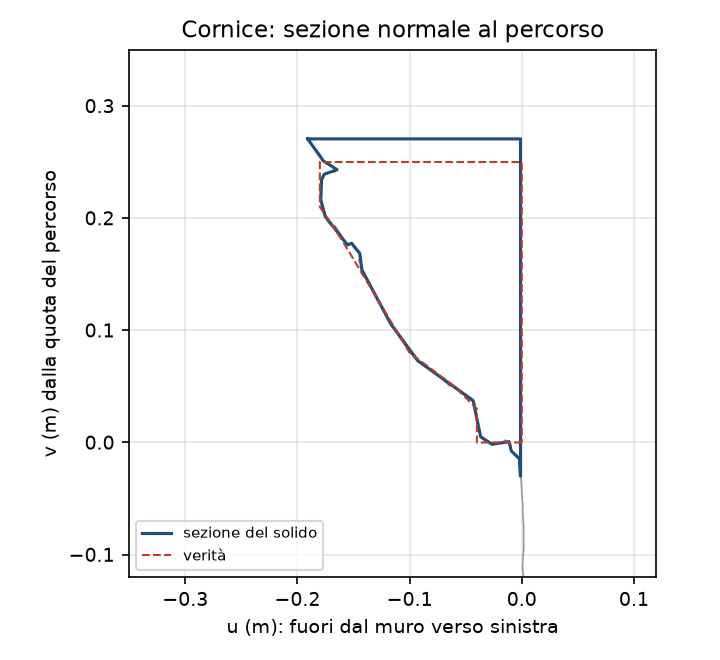
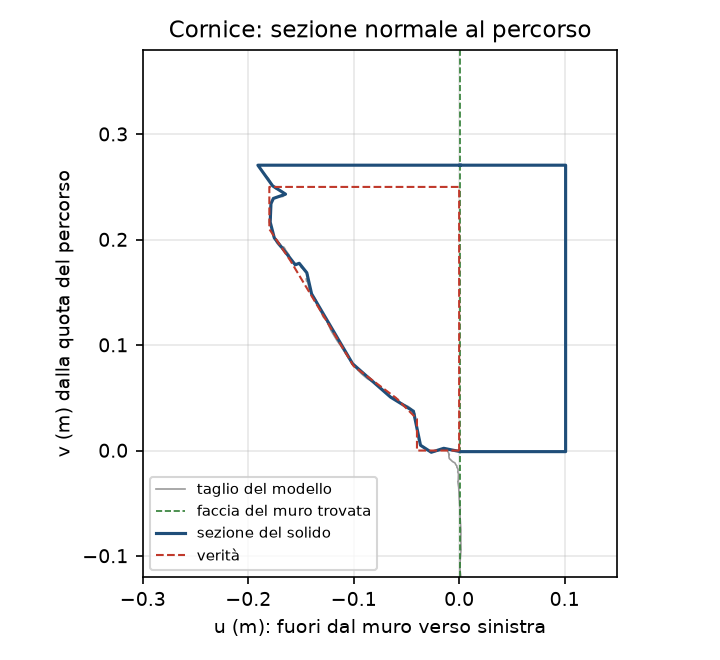
docs(plugins): Architectural elements after the review - the cornice measured from the wall face, the ring's thickness checked, STEP in metres, rebuild
- The cornice's section is the stretch that stands out of the wall face, its projection from the face and its height
  its own; the window found from the cut; the wall face out of the fit. New numbers of the proof (dialog defaults).
- The ring's thickness accepted only when the far crossings agree, else asked for (a ring flush with a wall); the arch's
  fit on the curved faces only; a type asked for is enforced; the RMS of the candidates shown.
- True arcs only for semicircular, segmental and pointed rings; STEP in metres, STL numbers in metres, the origin file
  beside an exported STEP; plan input always on the chunk's own orthophoto; the warnings of a column; failed edits
  change nothing; Rebuild after the chunk's system changed. The pane figure whole.

diff --git a/docs/plugins/architecture.it.md b/docs/plugins/architecture.it.md
@@ -31,6 +31,9 @@ README e il codice sono nel [repository dei plugin](https://github.com/enzococca
    verticale.
 5. Leggi lo **scarto** nella tabella, mostra il solido nella vista 3D, modifica i parametri, esporta STEP, IFC o DXF.
 
+Zone e percorsi in pianta si disegnano sempre sull'ortofoto (o sul DEM) del chunk: il plugin la rimostra prima di
+chiedere, anche quando la vista mostrava un prospetto.
+
 <figure markdown="span">
   ![Il pannello del plugin](../img/plugins/architecture/pane.png)
   <figcaption>Il pannello con i tre elementi degli esempi: le misure e lo scarto di ciascuno.</figcaption>
@@ -76,7 +79,12 @@ interno. La parte del modello dentro la zona e fra le due quote è la colonna, o
   già fatta.
 
 *Modifica parametri...* cambia il raggio di ogni nodo, il numero dei nodi o la scelta *Come misurato*: il profilo
-misurato e l'asse restano come sono, cambia solo il solido, e lo scarto si misura di nuovo.
+misurato e l'asse restano come sono, cambia solo il solido, e lo scarto si misura di nuovo. Una modifica che non riesce
+o viene annullata non cambia nulla: l'elemento tiene i suoi numeri e i suoi file.
+
+Il plugin avvisa (nella tabella, nel riassunto e nell'IFC) quando il profilo ha un **gradino**, una base o un abaco
+dentro la zona: base, fusto e capitello vanno fatti come elementi separati. Per un **fusto coricato** quale capo sia la
+base è arbitrario: raggio alla base e in cima possono risultare scambiati.
 
 <figure markdown="span">
   ![Il profilo della colonna](../img/plugins/architecture/column-profile.png)
@@ -99,18 +107,24 @@ Una cornice, una modanatura, una cornice marcapiano: una sezione portata lungo u
   superficie del modello più vicina a chi guarda: un percorso così tiene le sue quote, anche una cornice inclinata);
   oppure dritto **fra due marker**.
 * **La sezione**: il modello tagliato dal piano normale al percorso in una stazione (di base il centro del primo
-  tratto), tenuto in una **finestra** intorno al punto del percorso (sotto, sopra, sporgenza massima), la linea più
-  vicina al percorso, chiusa contro il muro da una linea di fondo *Profondità nel muro* dietro di essa, semplificata
-  (Douglas-Peucker, in metri). Sporge verso le foto, o dal lato che scegli.
+  tratto). Sulla linea del taglio più vicina al punto del percorso il plugin trova la **faccia del muro** (dove la linea
+  corre verticale) e tiene solo il tratto che **ne sporge** più della risoluzione della mesh, quello al punto del
+  percorso: l'altezza della modanatura, non il muro sopra e sotto. Il tratto si chiude con una linea di fondo
+  *Profondità nel muro* dietro la faccia e si semplifica (Douglas-Peucker, in metri). La **sporgenza** si misura dalla
+  faccia del muro. Di base la finestra si trova dal taglio (l'estensione della modanatura e 10 cm intorno, conservata
+  nell'elemento); una finestra data nel dialogo o con `--window` limita la ricerca. Sporge verso le foto, o dal lato
+  che scegli. Un elemento isolato (un taglio che si richiude su se stesso) si tiene intero.
 * **Il solido**: la sezione portata lungo il percorso con gli **angoli a quartabuono**, come gira l'angolo una cornice
   scolpita; un'estrusione se il percorso è dritto.
 
-*Modifica parametri...* cambia la semplificazione e la profondità nel muro, dal taglio conservato nell'elemento.
+*Modifica parametri...* cambia la semplificazione e la profondità nel muro, dalla linea del taglio conservata
+nell'elemento.
 
 <figure markdown="span">
   ![La sezione della cornice](../img/plugins/architecture/cornice-section.png)
-  <figcaption>La cornice degli esempi: la sezione del solido (blu) contro quella vera (rosso). La sommità è più alta
-  perché lo è il modello del programma: la cima del muro si vedeva solo di scorcio.</figcaption>
+  <figcaption>La cornice degli esempi: il taglio del modello (grigio), la faccia del muro trovata (verde), la sezione
+  del solido (blu, chiusa 10 cm dentro il muro) contro quella vera (rosso). La sommità è più alta perché lo è il modello
+  del programma: la cima del muro si vedeva solo di scorcio.</figcaption>
 </figure>
 
 ## L'arco e la volta
@@ -125,10 +139,18 @@ Una cornice, una modanatura, una cornice marcapiano: una sezione portata lungo u
   chiave), un'**ellisse** con gli assi orizzontale e verticale, o **come misurato**. Gli stipiti sotto la linea d'imposta
   fanno parte dell'adattamento, come linee verticali. Con *il migliore (scarto)* vince il tipo più semplice entro il 25 %
   dello scarto migliore: un cerchio prima di un arco acuto, prima di un'ellisse.
-* **Spessore**: la distanza mediana dell'estradosso dall'intradosso, o dato. **Profondità**: l'estensione del modello
-  dietro la ghiera lungo la normale del piano, o data. *Volta a botte* scrive lo stesso solido come volta.
+* **Spessore**: la distanza mediana dell'estradosso dall'intradosso, accettata solo quando gli attraversamenti più
+  lontani concordano (dispersione sotto il 20 % della mediana, mediana sotto metà della luce); altrimenti il plugin lo
+  chiede, con il motivo. Un arco la cui ghiera è **a filo del muro** intorno non mostra un estradosso in sezione: gli
+  attraversamenti lontani sono i fianchi e la sommità del muro, e lo spessore va dato. **Profondità**: l'estensione del
+  modello dietro la ghiera lungo la normale del piano, o data. *Volta a botte* scrive lo stesso solido come volta.
+* **Il tipo chiesto si rispetta**: a tutto sesto mette il centro sulla linea d'imposta, ribassato sotto di essa. La
+  tabella, il riassunto e l'IFC danno lo scarto quadratico del tipo scelto e degli altri provati, per esempio «a sesto
+  acuto (rms 1,3 mm; cerchio 45,8, ellisse 9,9)».
 
-La ghiera sopra la linea d'imposta si scrive con archi veri (tre punti ciascuno) in STEP e IFC.
+Una ghiera a tutto sesto, ribassata o a sesto acuto si scrive con archi veri (tre punti ciascuno) in STEP e IFC. Una
+ghiera ellittica o come misurata è una spezzata di 96 punti, e l'estradosso di una ghiera ellittica è l'ellisse con i
+due semiassi allungati dello spessore (non una curva a distanza costante).
 
 <figure markdown="span">
   ![La sezione dell'arco](../img/plugins/architecture/arch-section.png)
@@ -141,8 +163,10 @@ La ghiera sopra la linea d'imposta si scrive con archi veri (tre punti ciascuno)
 Ogni elemento porta il suo **scarto**: la distanza dei punti del modello dal solido, come **mediana**, **90° percentile**
 e **massimo**, con il numero dei punti. Una mediana di pochi millimetri dice che il solido segue il modello; un massimo
 grande indica quello che il solido non ha (una scheggiatura, una grappa, un rappezzo più tardo). I punti sono quelli
-della zona dell'elemento: per una colonna la parte scelta, per un arco la ghiera e la profondità, per una modanatura il
-riquadro del solido senza quello che sta dietro la sua linea di fondo (il muro), di cui si dà il numero.
+della zona dell'elemento: per una colonna la parte scelta; per un arco i punti entro tre lati della mesh
+dall'intradosso o dall'estradosso, non quelli sulle due facce piane (che una ghiera a filo del muro condivide con il
+muro), di cui si dà il numero; per una modanatura il riquadro del solido senza i punti sulla faccia del muro o dietro
+(stanno sul solido per costruzione e farebbero sembrare lo scarto migliore), di cui si dà il numero.
 
 Lo scarto confronta il solido con il **modello**, non con il monumento: un modello dista già di qualche millimetro
 dalla superficie vera, e il solido lo eredita.
@@ -157,7 +181,7 @@ dalla superficie vera, e il solido lo eredita.
 | | stesso asse di | l'asse di una colonna già fatta |
 | Modanatura | quota | di un percorso tracciato sulla pianta |
 | | sezione a | metri dall'inizio del percorso |
-| | finestra sotto, sopra, sporgenza massima | intorno al punto del percorso, in metri |
+| | finestra sotto, sopra, sporgenza massima | 0 = trovata dal taglio (l'estensione della modanatura e 10 cm); altrimenti limita la ricerca |
 | | sporge verso | le foto, a sinistra o a destra del percorso |
 | | profondità nel muro | della linea di fondo, 0,1 m |
 | | semplificazione | tolleranza di Douglas-Peucker, 2 mm |
@@ -168,14 +192,15 @@ dalla superficie vera, e il solido lo eredita.
 
 ## File e formati
 
-Tutto di un elemento sta in `<dati del chunk>/architecture/<id>/`: `solid/solid.step` (AP214), `solid/solid.stl`
-(tassellato a 0,5 mm), `model.ply` (quello che mostra la vista 3D) ed `element.json` con tutto: origine, parametri,
+Tutto di un elemento sta in `<dati del chunk>/architecture/<id>/`: `solid/solid.step` (AP214, in metri),
+`solid/solid.stl` (tassellato a 0,5 mm; l'STL non ha unità, i suoi numeri sono metri), `model.ply` (quello che mostra la vista 3D) ed `element.json` con tutto: origine, parametri,
 profilo misurato, geometria, scarto, solido, file. Il modello, la trasformazione e i prodotti del chunk non cambiano
 mai.
 
 Le coordinate di STEP, STL e IFC sono quelle del sistema del chunk meno un'**origine** tonda (una per chunk, in
 `element.json`): tutti gli elementi di un chunk combaciano fra loro e con la mesh, con numeri piccoli. *Esporta
-STEP...* copia i file; *DXF...* scrive il profilo o la sezione in scala 1:1 in metri, sui layer SOLIDO, MISURATO, ASSE
+STEP...* copia i file, ognuno con un `<nome>.origin.json` accanto (l'origine, il sistema, le unità, il posizionamento:
+mondo = coordinate dello STEP + origine); *DXF...* scrive il profilo o la sezione in scala 1:1 in metri, sui layer SOLIDO, MISURATO, ASSE
 e IMPOSTA.
 
 ### IFC
@@ -192,9 +217,19 @@ accanto agli elementi a richiesta (`IfcGeographicElement`). I solidi sono **para
 | Arco, volta | `IfcBuildingElementProxy` ("Arch", "Vault") | `IfcExtrudedAreaSolid` di linee e `IfcArcIndex` |
 
 `Pset_PyArchInit_Element`: `Kind`, `Method`, `Name`, ogni parametro come `P_<nome>` (metri, gradi), `Fit_median_m`,
-`Fit_p90_m`, `Fit_max_m`, `Fit_points`, `Source`, `Representation` e una nota che il solido è un'interpretazione del
+`Fit_p90_m`, `Fit_max_m`, `Fit_points`, `Fit_candidates` (archi), `Warnings`, `Source`, `Representation`,
+`Frames` (quali valori sono coordinate del mondo e quali stanno nel piano della sezione; gli archi portano anche
+`P_world_apex` e i punti d'imposta nel mondo, le modanature gli estremi del percorso) e una nota che il solido è un'interpretazione del
 modello misurato; `Qto_PyArchInit_Element` con volume e superficie. Un IFC riletto da IfcOpenShell dà il volume del
 solido di CadQuery entro l'1 % (provato, anche con le cornici inclinate).
+
+### Quando il sistema del chunk cambia
+
+L'origine, la trasformazione e il sistema del chunk si conservano con gli elementi. Se poi il chunk viene
+georeferenziato o portato in un altro sistema (riferimenti, *GNSS > Sistema e quote*), gli elementi restano nel sistema
+vecchio: il plugin rifiuta di esportarli, mostrarli o modificarli finché **Ricostruisci** (nel pannello, o
+`ppg plugin architecture rebuild`) non li rifà, portando zone, percorsi, piani e punti nel sistema nuovo e misurandoli
+di nuovo sul modello.
 
 ## Riga di comando
 
@@ -205,6 +240,8 @@ ppg plugin architecture moulding PROGETTO.ppg --path "LINESTRING(x y, x y)" --he
     --window -0.4,-0.03,0.02,0.3 --out-side -1
 ppg plugin architecture moulding PROGETTO.ppg --elevation "Prospetto sud" --path "LINESTRING(u v, u v)"
 ppg plugin architecture arch PROGETTO.ppg --section "Sezione A" --pick 1.8,0.8 --type auto
+ppg plugin architecture arch PROGETTO.ppg --points x1,y1,x2,y2 --pick 1.8,0.8 --thickness 0.25
+ppg plugin architecture rebuild PROGETTO.ppg
 ppg plugin architecture list PROGETTO.ppg
 ppg plugin architecture export PROGETTO.ppg --out elementi.ifc --mesh
 ppg plugin architecture export PROGETTO.ppg --out arco.dxf --ids Arco
@@ -234,18 +271,22 @@ modello del programma dalla superficie vera nella zona: l'errore della fotogramm
 | raggio | 1608,6 mm | 1600,0 mm |
 | linea d'imposta | 1391,1 mm | 1400,0 mm |
 | spessore della ghiera | 253,6 mm | 250,0 mm |
-| scarto (mediana / p90) | 3,2 / 11,1 mm | |
+| scarto sulle facce curve (mediana / p90) | 2,0 / 10,8 mm | |
+| punti sulle due facce piane, esclusi | 7734 | |
 | modello contro verità (mediana / p90) | 2,2 / 8,2 mm | |
 
-| Cornice (sporgenza 0,18 m) | plugin | verità |
+| Cornice (sporgenza 0,18 m, altezza 0,25 m), valori predefiniti del dialogo | plugin | verità |
 |---|---|---|
-| sporgenza | 190,9 mm | 180,0 mm |
-| area della sezione davanti al muro | 329,9 cm² | 299,0 cm² (+10,3 %) |
-| scarto (mediana / p90) | 1,7 / 5,1 mm | |
+| sporgenza dalla faccia del muro | 191,8 mm | 180,0 mm |
+| altezza della cornice | 272,2 mm | 250,0 mm |
+| area della sezione davanti al muro | 335,2 cm² | 299,0 cm² (+12,1 %) |
+| scarto (mediana / p90) | 1,8 / 5,7 mm | |
+| punti sulla faccia del muro o dietro, esclusi | 695 | |
 | modello contro verità (mediana / p90 / max) | 2,0 / 5,6 / 20,4 mm | |
 
-La sezione della cornice segue il modello: la sporgenza e l'area in più vengono dalla sommità del muro e della cornice,
-che il programma ha ricostruito fino a 2 cm più in alto (la vedono solo di scorcio le foto più alte), non dal plugin.
+La sezione della cornice segue il modello: sporgenza, altezza e area in più vengono dalla sommità del muro e della
+cornice, che il programma ha ricostruito fino a 2 cm più in alto (la vedono solo di scorcio le foto più alte), non dal
+plugin. Con i valori predefiniti del dialogo la finestra si è trovata dal taglio e la sezione è la sola cornice.
 
 ## Limiti
 

diff --git a/docs/plugins/architecture.md b/docs/plugins/architecture.md
@@ -30,6 +30,9 @@ code are in the [plugin repository](https://github.com/enzococca/pyarchinit-phot
 4. **Arch / vault...**: choose a section of the project and click inside the opening, or trace a vertical plane in plan.
 5. Read the **fit** in the table, show the solid in the 3D view, edit the parameters, export STEP, IFC or DXF.
 
+Regions and paths in plan are always drawn on the chunk's own orthophoto (or DEM): the plugin shows it again before
+asking, even when the view was showing an elevation.
+
 <figure markdown="span">
   ![The pane of the plugin](../img/plugins/architecture/pane.png)
   <figcaption>The pane with the three elements of the examples: the measures and the fit of each.</figcaption>
@@ -73,7 +76,12 @@ it. The part of the model inside the region and between the heights is the colum
   already made.
 
 *Edit parameters...* changes the radius of each knot, the number of knots or the choice *As measured*: the measured
-profile and the axis stay as they are, only the solid changes, and the fit is measured again.
+profile and the axis stay as they are, only the solid changes, and the fit is measured again. An edit that fails or is
+cancelled changes nothing: the element keeps its numbers and its files.
+
+The plugin warns (in the table, the summary and the IFC) when the profile has a **step**, a base or an abacus inside the
+region: make base, shaft and capital as separate elements. For a **shaft lying down** which end is the base is
+arbitrary: the radius at the base and at the top may be the other way round.
 
 <figure markdown="span">
   ![The profile of the column](../img/plugins/architecture/column-profile.png)
@@ -95,18 +103,24 @@ A cornice, a moulding, a string course: a section carried along a path.
   the world through the elevation's frame, at the depth of its relief or, where the relief has no value, of the model's
   surface nearest the viewer: such a path keeps its heights, a raking cornice too); or straight **between two markers**.
 * **The section**: the model cut by the plane normal to the path at a station (by default the middle of the first
-  segment), kept inside a **window** around the path's point (below, above, largest projection), the line nearest the
-  path, closed against the wall by a back line *Depth into the wall* behind it, simplified (Douglas-Peucker, in metres).
-  It projects towards the photos, or the side you choose.
+  segment). On the line of the cut nearest the path's point the plugin finds the **wall face** (where the line runs
+  vertically) and keeps only the stretch that **stands out of it** by more than the mesh's resolution, the one at the
+  path's point: the moulding's own height, not the wall above and below. That stretch is closed by a back line *Depth
+  into the wall* behind the face and simplified (Douglas-Peucker, in metres). The **projection** is measured from the
+  wall face. By default the window is found from the cut (the moulding's extent and 10 cm around it, kept in the
+  element); a window given in the dialog or with `--window` limits the search. It projects towards the photos, or the
+  side you choose. A free-standing member (a cut that closes on itself) is kept whole.
 * **The solid**: the section swept along the path with **mitred corners**, as a carved cornice turns a corner; an
   extrusion when the path is straight.
 
-*Edit parameters...* changes the simplification and the depth into the wall, from the cut kept in the element.
+*Edit parameters...* changes the simplification and the depth into the wall, from the line of the cut kept in the
+element.
 
 <figure markdown="span">
   ![The section of the cornice](../img/plugins/architecture/cornice-section.png)
-  <figcaption>The cornice of the examples: the section of the solid (blue) against the true one (red). The top is
-  higher because the program's model is: the top of the wall was seen only obliquely.</figcaption>
+  <figcaption>The cornice of the examples: the cut of the model (grey), the wall face found (green), the section of
+  the solid (blue, closed 10 cm into the wall) against the true one (red). The top is higher because the program's
+  model is: the top of the wall was seen only obliquely.</figcaption>
 </figure>
 
 ## The arch and the vault
@@ -121,10 +135,18 @@ A cornice, a moulding, a string course: a section carried along a path.
   axis-aligned **ellipse**, or **as measured**. The jambs below the springing line are part of the fit, as vertical
   lines. With *the best (fit)* the simplest type within 25 % of the best RMS wins: a circle before a pointed arch
   before an ellipse.
-* **Thickness**: the median distance of the extrados from the intrados, or given. **Depth**: the extent of the model
-  behind the ring along the plane's normal, or given. *Barrel vault* writes the same solid as a vault.
+* **Thickness**: the median distance of the extrados from the intrados, accepted only when the far crossings agree
+  (their spread under 20 % of the median, the median under half the span); otherwise the plugin asks for it, with the
+  reason. An arch whose ring is **flush with the wall** around it shows no extrados in a section: the far crossings are
+  the wall's sides and top, and the thickness must be given. **Depth**: the extent of the model behind the ring along
+  the plane's normal, or given. *Barrel vault* writes the same solid as a vault.
+* A **type asked for is enforced**: semicircular puts the centre on the springing line, segmental below it. The table,
+  the summary and the IFC give the RMS of the type chosen and of the others tried, e.g. "pointed (rms 1.3 mm; circle
+  45.8, ellipse 9.9)".
 
-The ring above the springing line is written with true arcs (three points each) in STEP and IFC.
+A semicircular, segmental or pointed ring is written with true arcs (three points each) in STEP and IFC. An elliptical
+or as-measured ring is a polyline of 96 points, and the extrados of an elliptical ring is the ellipse with both
+semi-axes grown by the thickness (not a curve at a constant distance).
 
 <figure markdown="span">
   ![The section of the arch](../img/plugins/architecture/arch-section.png)
@@ -137,8 +159,10 @@ The ring above the springing line is written with true arcs (three points each) 
 Every element carries its **fit**: the distance of the model's points from the solid, as the **median**, the **90th
 percentile** and the **maximum**, with the number of points. A median of a few millimetres says that the solid follows
 the model; a large maximum points at what the solid does not have (a chip, a cramp, a later patch). The points are those
-of the region of the element: for a column the part chosen, for an arch the ring and the depth, for a moulding the box
-of the solid without what lies behind its back line (the wall), whose count is given.
+of the region of the element: for a column the part chosen; for an arch the points within three mesh edges of the
+intrados or the extrados, not those on its two plane faces (which a ring flush with a wall shares with the wall), whose
+count is given; for a moulding the box of the solid without the points on the wall face or behind it (they lie on the
+solid by construction and would make the fit look better), whose count is given.
 
 The fit compares the solid with the **model**, not with the monument: a model is itself a few millimetres from the real
 surface, and the solid inherits that.
@@ -153,7 +177,7 @@ surface, and the solid inherits that.
 | | same axis as | the axis of a column already made |
 | Moulding | height | of a path traced on the plan |
 | | section at | metres from the start of the path |
-| | window below, above, largest projection | around the path's point, in metres |
+| | window below, above, largest projection | 0 = found from the cut (the moulding's extent and 10 cm); else the search is limited to it |
 | | projects towards | the photos, left or right of the path |
 | | depth into the wall | of the back line, 0.1 m |
 | | simplification | Douglas-Peucker tolerance, 2 mm |
@@ -164,13 +188,14 @@ surface, and the solid inherits that.
 
 ## Files and formats
 
-Everything of an element is in `<chunk data>/architecture/<id>/`: `solid/solid.step` (AP214), `solid/solid.stl`
-(tessellated at 0.5 mm), `model.ply` (what the 3D view shows) and `element.json` with everything: source, parameters,
+Everything of an element is in `<chunk data>/architecture/<id>/`: `solid/solid.step` (AP214, in metres),
+`solid/solid.stl` (tessellated at 0.5 mm; STL has no unit, its numbers are metres), `model.ply` (what the 3D view shows) and `element.json` with everything: source, parameters,
 measured profile, geometry, fit, solid, files. The chunk's model, transform and products are never changed.
 
 The coordinates of the STEP, STL and IFC are those of the chunk's system minus a round **origin** (kept per chunk, in
 `element.json`): all the elements of a chunk line up with each other and with the mesh, with small numbers. *Export
-STEP...* copies the files; *DXF...* writes the profile or the section at 1:1 in metres, on the layers SOLIDO,
+STEP...* copies the files, each with a `<name>.origin.json` beside it (the origin, the system, the units, the
+placement: world = STEP coordinates + origin); *DXF...* writes the profile or the section at 1:1 in metres, on the layers SOLIDO,
 MISURATO, ASSE and IMPOSTA.
 
 ### IFC
@@ -187,9 +212,18 @@ elements on request (`IfcGeographicElement`). The solids are **parametric**:
 | Arch, vault | `IfcBuildingElementProxy` ("Arch", "Vault") | `IfcExtrudedAreaSolid` of lines and `IfcArcIndex` |
 
 `Pset_PyArchInit_Element`: `Kind`, `Method`, `Name`, every parameter as `P_<name>` (metres, degrees), `Fit_median_m`,
-`Fit_p90_m`, `Fit_max_m`, `Fit_points`, `Source`, `Representation` and a note that the solid is an interpretation of
+`Fit_p90_m`, `Fit_max_m`, `Fit_points`, `Fit_candidates` (arches), `Warnings`, `Source`, `Representation`,
+`Frames` (which values are world coordinates and which are in the section plane; arches also carry `P_world_apex`
+and the world springing points, mouldings the world ends of the path) and a note that the solid is an interpretation of
 the measured model; `Qto_PyArchInit_Element` with the volume and the area. An IFC read back by IfcOpenShell gives the
 volume of CadQuery's solid within 1 % (tested, raking mouldings included).
+
+### When the chunk's system changes
+
+The origin, the chunk's transform and its system are kept with the elements. When the chunk is georeferenced or moved
+to another system afterwards (references, *GNSS > System and heights*), the elements are in the old frame: the plugin
+refuses to export, show or edit them until **Rebuild** (in the pane, or `ppg plugin architecture rebuild`) makes them
+again, carrying their regions, paths, planes and points into the new frame and measuring them again on the model.
 
 ## Command line
 
@@ -200,6 +234,8 @@ ppg plugin architecture moulding PROJECT.ppg --path "LINESTRING(x y, x y)" --hei
     --window -0.4,-0.03,0.02,0.3 --out-side -1
 ppg plugin architecture moulding PROJECT.ppg --elevation "South elevation" --path "LINESTRING(u v, u v)"
 ppg plugin architecture arch PROJECT.ppg --section "Section A" --pick 1.8,0.8 --type auto
+ppg plugin architecture arch PROJECT.ppg --points x1,y1,x2,y2 --pick 1.8,0.8 --thickness 0.25
+ppg plugin architecture rebuild PROJECT.ppg
 ppg plugin architecture list PROJECT.ppg
 ppg plugin architecture export PROJECT.ppg --out elements.ifc --mesh
 ppg plugin architecture export PROJECT.ppg --out arch.dxf --ids Arco
@@ -229,18 +265,22 @@ the program's model from the true surface in the region: the error of the photog
 | radius | 1608.6 mm | 1600.0 mm |
 | springing line | 1391.1 mm | 1400.0 mm |
 | thickness of the ring | 253.6 mm | 250.0 mm |
-| fit (median / p90) | 3.2 / 11.1 mm | |
+| fit on the curved faces (median / p90) | 2.0 / 10.8 mm | |
+| points on the two plane faces, left out | 7734 | |
 | model against truth (median / p90) | 2.2 / 8.2 mm | |
 
-| Cornice (projection 0.18 m) | plugin | truth |
+| Cornice (projection 0.18 m, height 0.25 m), dialog defaults | plugin | truth |
 |---|---|---|
-| projection | 190.9 mm | 180.0 mm |
-| area of the section in front of the wall | 329.9 cm² | 299.0 cm² (+10.3 %) |
-| fit (median / p90) | 1.7 / 5.1 mm | |
+| projection from the wall face | 191.8 mm | 180.0 mm |
+| height of the cornice | 272.2 mm | 250.0 mm |
+| area of the section in front of the wall | 335.2 cm² | 299.0 cm² (+12.1 %) |
+| fit (median / p90) | 1.8 / 5.7 mm | |
+| points on the wall face or behind it, left out | 695 | |
 | model against truth (median / p90 / max) | 2.0 / 5.6 / 20.4 mm | |
 
-The cornice's section follows the model: its extra projection and area come from the top of the wall and the cornice,
-which the program reconstructed up to 2 cm higher (it is seen only obliquely by the highest photos), not from the plugin.
+The cornice's section follows the model: its extra projection, height and area come from the top of the wall and the
+cornice, which the program reconstructed up to 2 cm higher (it is seen only obliquely by the highest photos), not from
+the plugin. With the dialog's defaults the window was found from the cut and the section is the cornice alone.
 
 ## Limits
 
